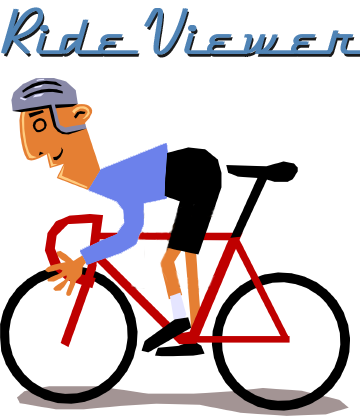
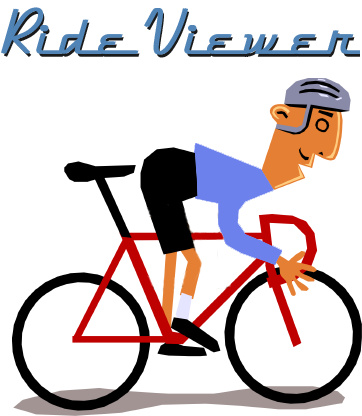
Updated about window (flip image).

diff --git a/aboutwindow.cpp b/aboutwindow.cpp
@@ -24,8 +24,6 @@ void AboutWindow::showVersionInfo(const QString& message, const QColor& color)
 {
 	_message = message;
 	_color = color;
-	QFont font("Arial", 10, 2);
-	setFont(font);
 	showMessage(_message, _alignement, _color);
 }
  
